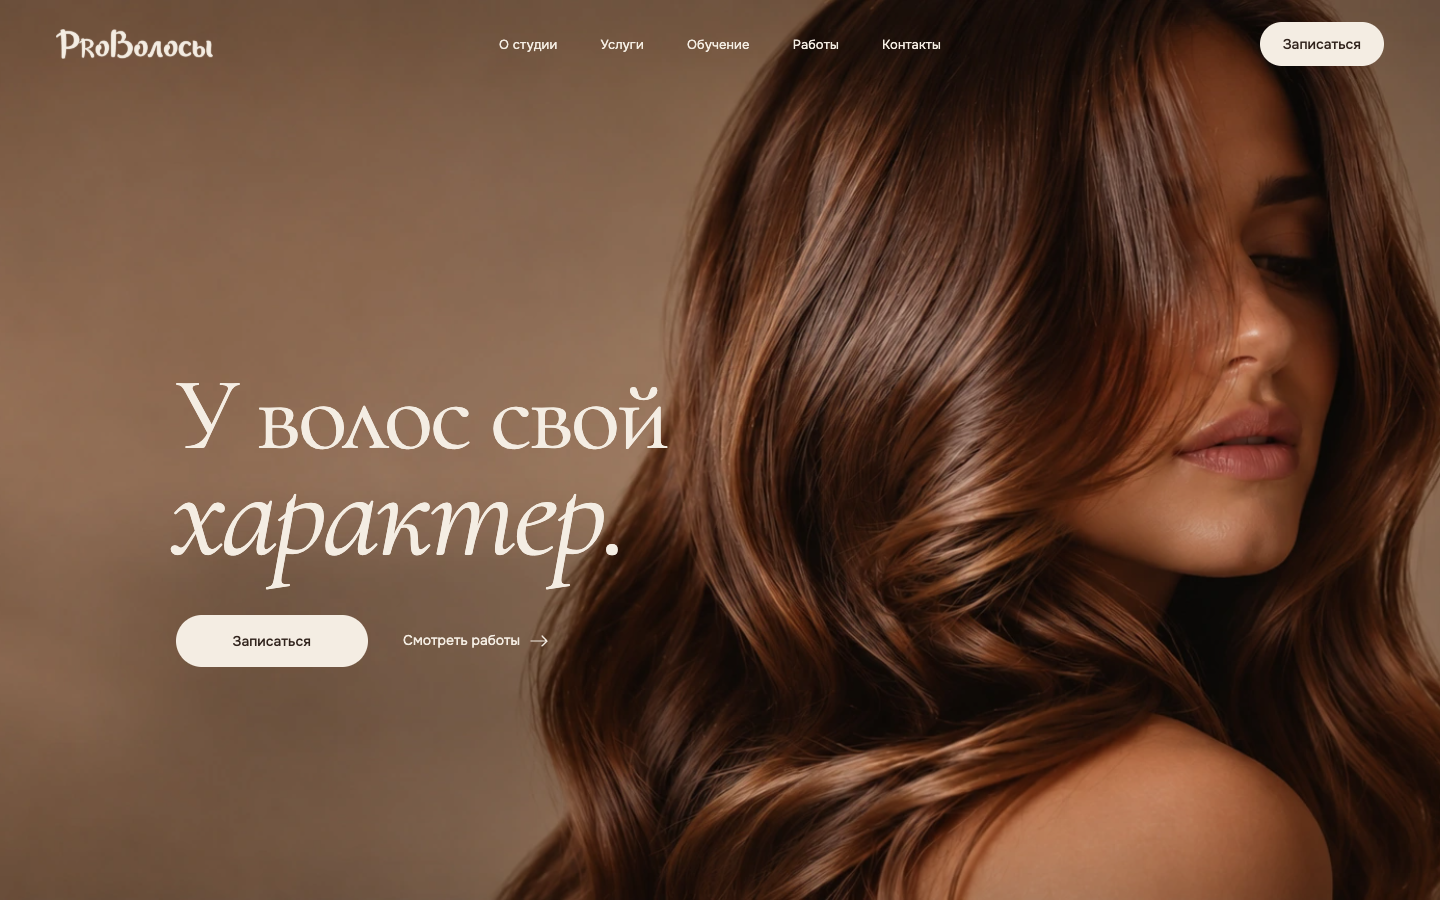
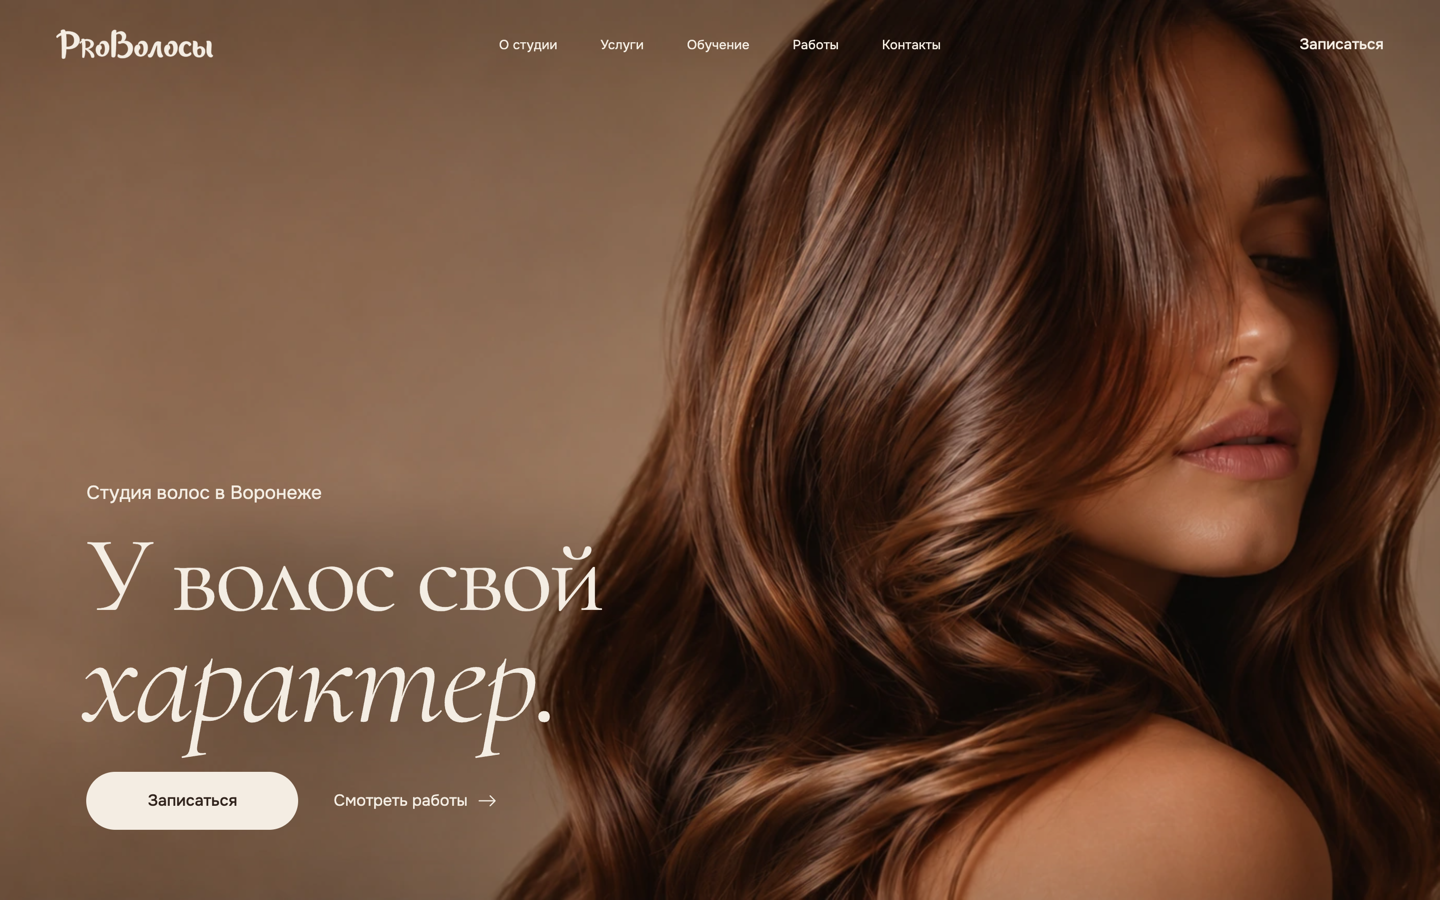
Recompose desktop hero as a studio poster

diff --git a/styles.css b/styles.css
@@ -180,15 +180,22 @@ a {
   display: flex;
   flex-direction: column;
   align-items: flex-start;
-  padding-block: max(2.5rem, calc(41svh - var(--header-height))) max(3rem, env(safe-area-inset-bottom));
-  padding-inline: max(12.2vw, (100% - 94.5rem) / 2 + 3rem, env(safe-area-inset-left)) max(var(--gutter), env(safe-area-inset-right));
+  justify-content: flex-end;
+  padding-block: clamp(1.25rem, 4svh, 2.5rem) calc(clamp(1.75rem, 7.8svh, 5.75rem) + env(safe-area-inset-bottom));
+  padding-inline: max(6vw, (100% - 105rem) / 2 + 2rem, env(safe-area-inset-left)) max(var(--gutter), env(safe-area-inset-right));
+}
+
+.hero-location {
+  margin: 0 0 clamp(0.875rem, 2.2svh, 1.375rem);
+  font-size: clamp(0.9375rem, 1.3vw, 1.1875rem);
+  line-height: 1.35;
 }
 
 .hero h1 {
   margin: 0;
   min-inline-size: 0;
   overflow-wrap: break-word;
-  font: 400 clamp(4.1rem, 7.15vw, 7.75rem)/0.92 var(--font-display);
+  font: 400 clamp(3rem, min(7.5vw, 13svh), 8rem)/0.92 var(--font-display);
   font-synthesis: none;
   letter-spacing: -0.031em;
   text-wrap: balance;
@@ -212,7 +219,7 @@ a {
   flex-wrap: wrap;
   align-items: center;
   gap: 0.35rem clamp(1.15rem, 2.45vw, 2.25rem);
-  margin-block-start: clamp(2rem, 3.2vw, 2.875rem);
+  margin-block-start: clamp(1.5rem, 4svh, 2.625rem);
 }
 
 .booking {
@@ -243,11 +250,19 @@ a {
   content: "";
 }
 
+.hero-actions .booking {
+  min-inline-size: 13.25rem;
+  min-block-size: 3.625rem;
+  font-size: 1rem;
+}
+
 .header-booking {
+  display: flex;
+  align-items: center;
   justify-self: end;
-  min-inline-size: 7.75rem;
   min-block-size: 2.75rem;
-  padding-inline: 1.375rem;
+  font-size: 0.9375rem;
+  font-weight: 500;
 }
 
 .works-action {
@@ -258,7 +273,7 @@ a {
   padding: 0;
   border: 0;
   background: transparent;
-  font: 400 0.875rem/1.25 var(--font-body);
+  font: 400 1rem/1.25 var(--font-body);
   white-space: nowrap;
   cursor: pointer;
 }
@@ -284,8 +299,8 @@ a {
   content: "";
 }
 
-:is(.site-nav button, .works-action):active .motion-label::after,
-:is(.site-nav button, .works-action):focus-visible .motion-label::after {
+:is(.site-nav button, .works-action, .header-booking):active .motion-label::after,
+:is(.site-nav button, .works-action, .header-booking):focus-visible .motion-label::after {
   transform: scaleX(1);
   transition-duration: 0ms;
 }
@@ -557,7 +572,7 @@ body:has(.mobile-menu[open]) .site-header :is(.wordmark, .menu-toggle) {
 }
 
 @media (hover: hover) and (pointer: fine) {
-  :is(.site-nav button, .works-action):hover .motion-label::after {
+  :is(.site-nav button, .works-action, .header-booking):hover .motion-label::after {
     transform: scaleX(1);
   }
 
@@ -584,6 +599,10 @@ body:has(.mobile-menu[open]) .site-header :is(.wordmark, .menu-toggle) {
 @media (prefers-reduced-motion: no-preference) {
   .stage-photo img {
     animation: portrait-settle var(--motion-photo) var(--ease-reveal);
+  }
+
+  .hero-location {
+    animation: interface-in 360ms var(--ease-reveal) 65ms backwards;
   }
 
   .hero-line {
@@ -679,7 +698,8 @@ body:has(.mobile-menu[open]) .site-header :is(.wordmark, .menu-toggle) {
     display: grid;
   }
 
-  .header-booking {
+  .header-booking,
+  .hero-location {
     display: none;
   }
 
@@ -737,6 +757,11 @@ body:has(.mobile-menu[open]) .site-header :is(.wordmark, .menu-toggle) {
   :is(.hero-actions, .menu-footer) .booking {
     min-inline-size: 10.875rem;
     min-block-size: 3.1875rem;
+    font-size: 0.875rem;
+  }
+
+  .works-action {
+    font-size: 0.875rem;
   }
 }
 

diff --git a/index.html b/index.html
@@ -32,7 +32,7 @@
           </ul>
         </nav>
 
-        <a class="booking header-booking" href="tel:+79964504847">Записаться</a>
+        <a class="header-booking" href="tel:+79964504847"><span class="motion-label">Записаться</span></a>
       </header>
 
       <main class="hero">
@@ -41,6 +41,7 @@
           <img src="assets/hero.webp" alt="" width="1816" height="866" fetchpriority="high">
         </picture>
 
+        <p class="hero-location">Студия волос в Воронеже</p>
         <h1>
           <span class="hero-line">У волос свой</span>
           <span class="hero-line hero-accent">характер.</span>
